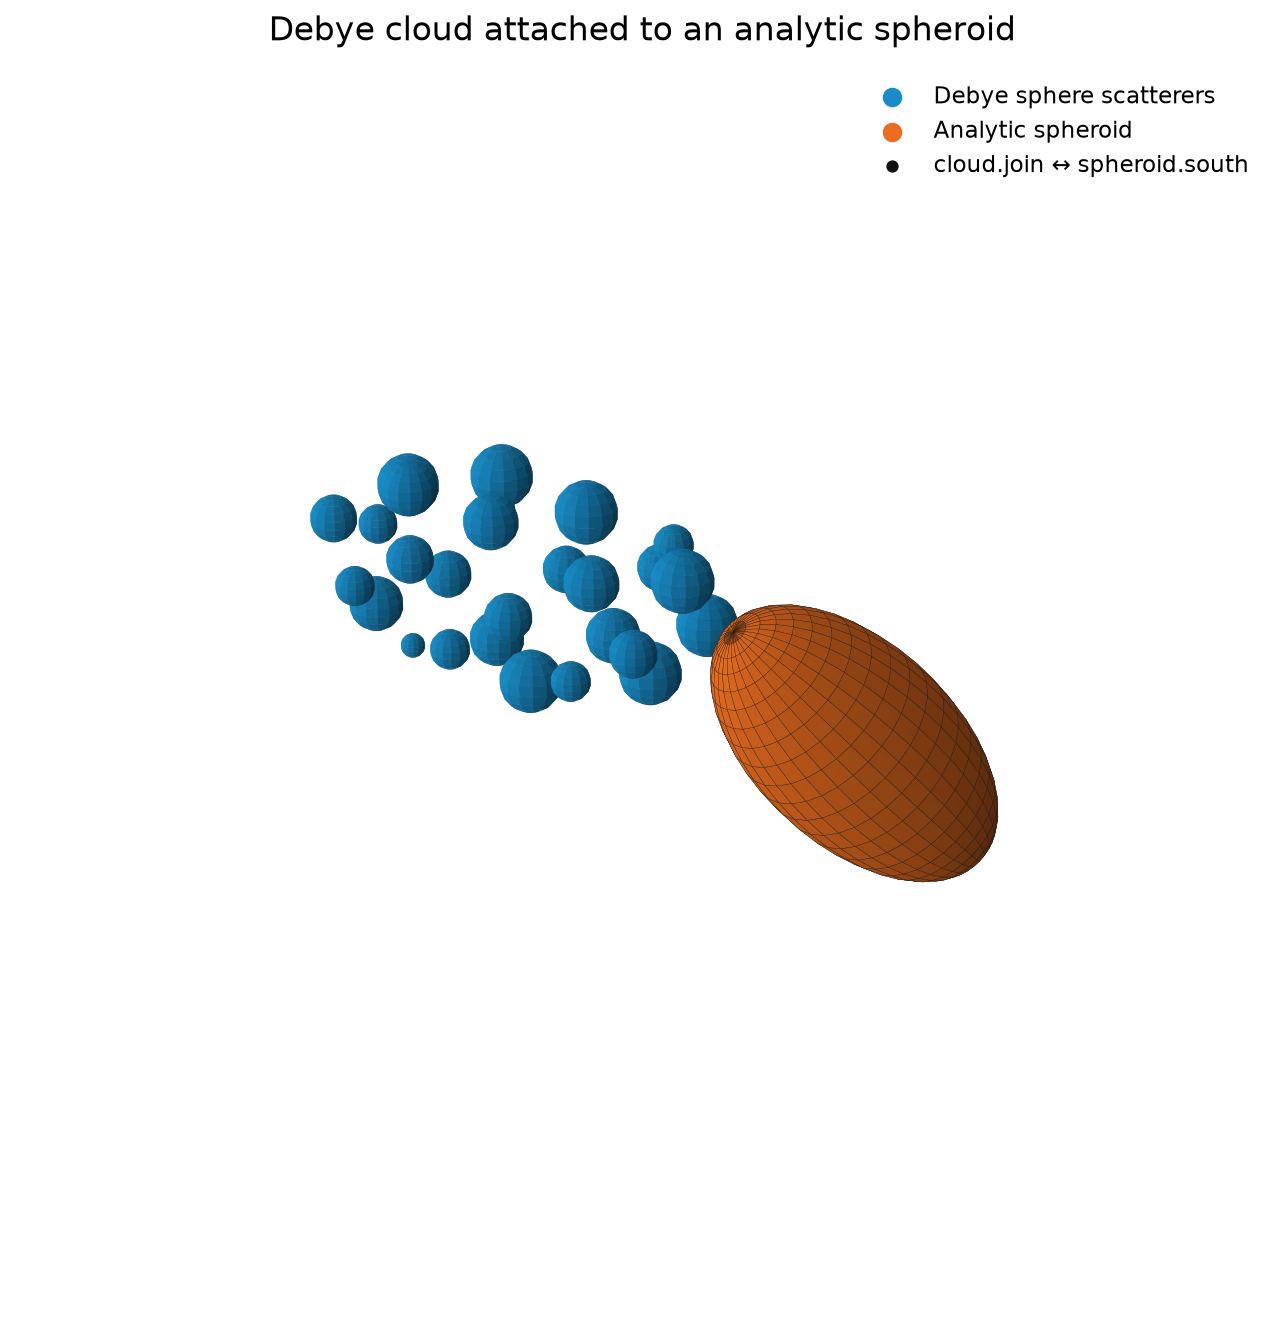
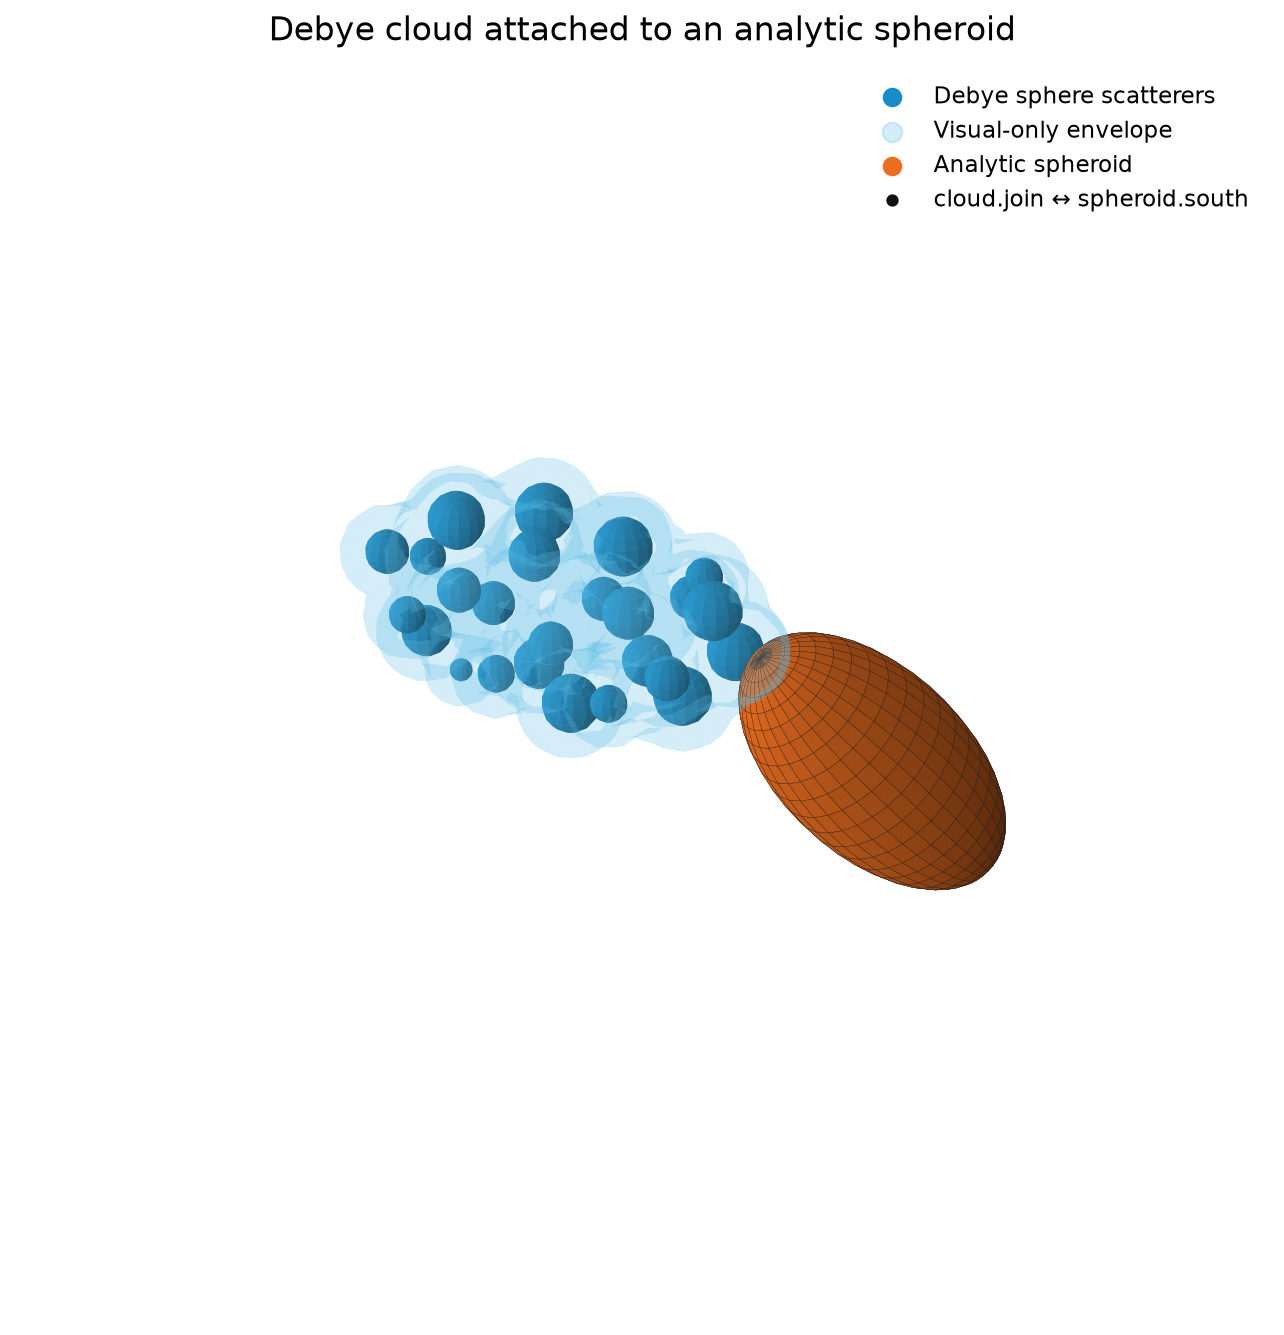
Show envelope in Debye attachment example

Changed region(s): [[0.2181, 0.3071, 0.7788, 0.6757], [0.6854, 0.0921, 0.9657, 0.1536]]

diff --git a/pyseb/examples/python/usd_debye_cloud_attachment.py b/pyseb/examples/python/usd_debye_cloud_attachment.py
@@ -35,6 +35,10 @@ options.relaxation_sweeps = 4
 options.minimum_clearance = 0.15
 options.surface_samples = 32
 options.zero_radius_marker_size = 0.08
+options.debye_envelope = True
+options.debye_envelope_resolution = 32
+options.debye_envelope_padding = -1.0  # Automatically connect the cloud.
+options.debye_envelope_opacity = 0.14
 options.color_overrides = {
     "cloud": (0.10, 0.55, 0.78),
     "spheroid": (0.92, 0.43, 0.12),
